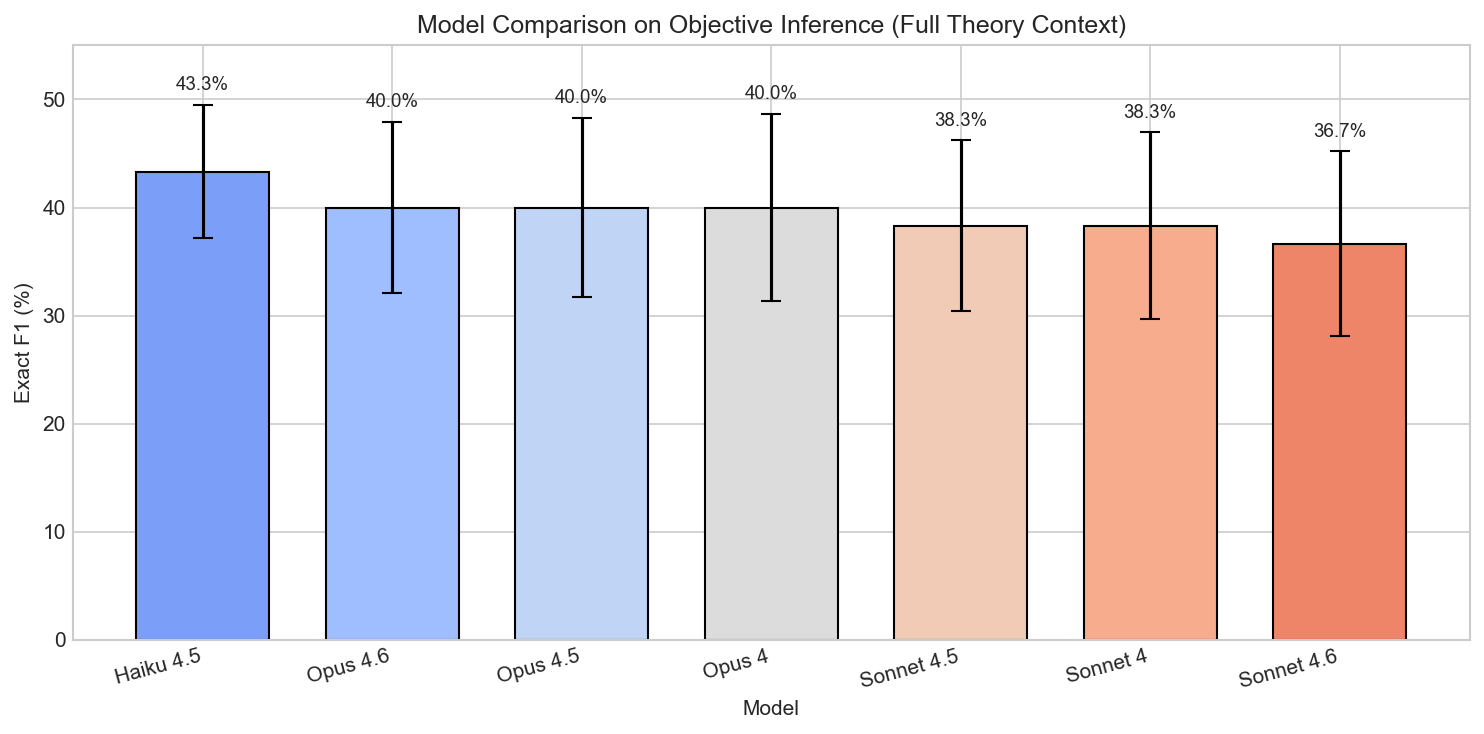
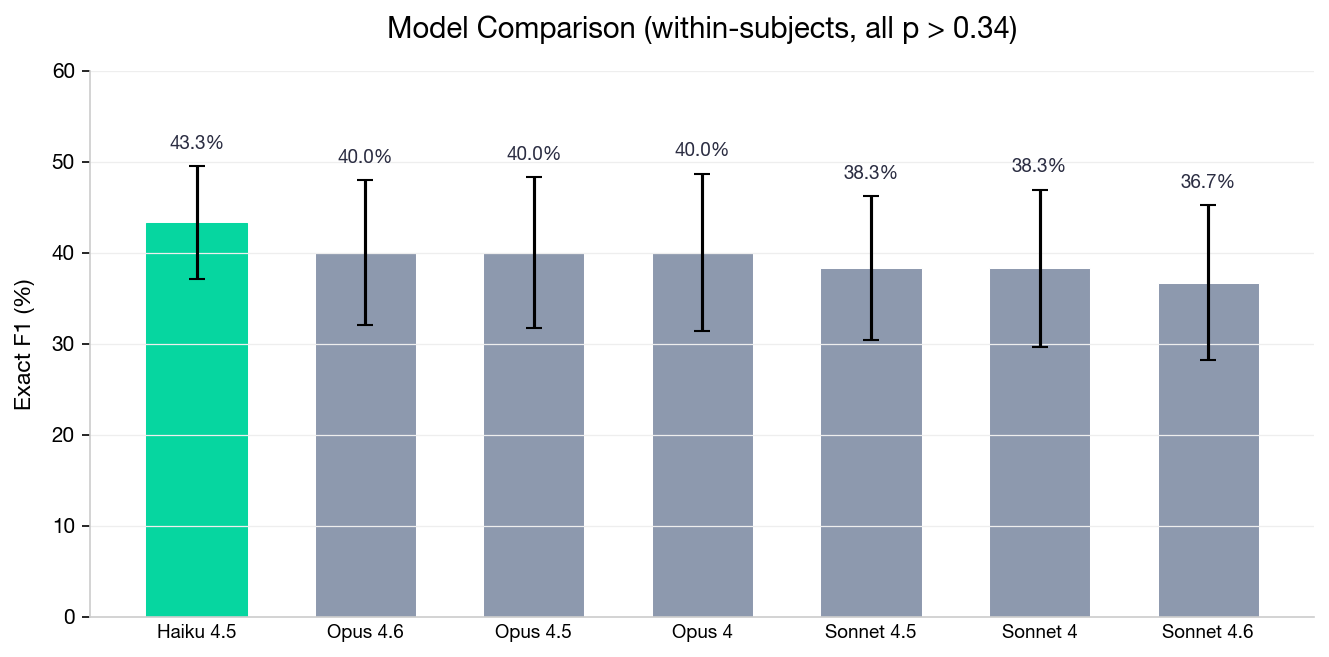
Add model comparison plot, remove oracle voluntary finding, remove project link

diff --git a/scripts/generate_blog_plots.py b/scripts/generate_blog_plots.py
@@ -279,6 +279,48 @@ def plot_effect_of_context():
 
 
 # ============================================================================
+# Plot 5: Model Comparison
+# ============================================================================
+
+def plot_model_comparison():
+    # Data from EXPERIMENTAL_RESULTS_SUMMARY.md (within-subjects, n=10)
+    models = ["Haiku 4.5", "Opus 4", "Opus 4.5", "Opus 4.6",
+              "Sonnet 4", "Sonnet 4.5", "Sonnet 4.6"]
+    means = [43.3, 40.0, 40.0, 40.0, 38.3, 38.3, 36.7]
+    stds = [19.6, 27.4, 26.3, 25.1, 27.3, 24.9, 27.0]
+    n = 10
+    ses = [s / np.sqrt(n) for s in stds]
+
+    # Sort by mean descending
+    order = np.argsort(means)[::-1]
+    models = [models[i] for i in order]
+    means = [means[i] for i in order]
+    ses = [ses[i] for i in order]
+
+    fig, ax = plt.subplots(figsize=(9, 4.5))
+
+    # All bars same color to emphasize "no difference"
+    bars = ax.bar(range(len(models)), means, yerr=ses, capsize=4,
+                  color=COLORS["neutral"], edgecolor="white", linewidth=0.5, width=0.6)
+
+    # Highlight cheapest model
+    bars[0].set_color(COLORS["success"])
+
+    ax.set_xticks(range(len(models)))
+    ax.set_xticklabels(models, fontsize=9)
+    ax.set_ylabel("Exact F1 (%)")
+    ax.set_title("Model Comparison (within-subjects, all p > 0.34)")
+    ax.set_ylim(0, 60)
+
+    add_bar_labels(ax, bars, means, ses)
+
+    plt.tight_layout()
+    plt.savefig(PLOTS_DIR / "fig8_model_comparison.png", dpi=150, bbox_inches="tight")
+    plt.close()
+    print("Saved fig8_model_comparison.png")
+
+
+# ============================================================================
 # Main
 # ============================================================================
 
@@ -288,4 +330,5 @@ if __name__ == "__main__":
     plot_oracle_effect()
     plot_f1_evolution()
     plot_effect_of_context()
+    plot_model_comparison()
     print("\nAll blog plots generated.")

diff --git a/docs/blog_post.md b/docs/blog_post.md
@@ -13,7 +13,7 @@
 
 ## Motivation
 
-This work is part of the [contextualization project](https://github.com/superkaiba/truthification), which aims to build systems that reliably estimate statement truth by conditioning on source identity and trust.
+This work is part of the contextualization project, which aims to build systems that reliably estimate statement truth by conditioning on source identity and trust.
 
 The core problem: text on the internet is produced by agents with specific objectives, but standard LLMs are trained on raw text, which **marginalizes over** author identity and goals — the same sentence means different things depending on who said it and why. The core theoretical insight ([agentic model of text generation](agentic-model-of-text-generation.md)) is that we can reverse this loss by explicitly conditioning on agent identity. "This product is excellent" carries entirely different information depending on whether it comes from a paid reviewer or a verified purchaser. If we can model the source, we can extract more accurate signal.
 
@@ -71,11 +71,11 @@ Forced oracle queries nearly triple property accuracy (25% → 71%):
 
 Optimal oracle budget is ~6 queries (27.1% F1), with diminishing returns beyond that — agents learn to "spin" oracle results (422 documented instances across 56 games).
 
-Critical finding: **LLMs don't voluntarily use verification tools.** When oracle use was optional, judges declined to query. Verification must be mandatory.
-
 ### Model capability doesn't matter
 
-7 Claude models tested on the same 10 transcripts (within-subjects): Haiku 4.5 (43.3%), Opus 4/4.5/4.6 (40.0%), Sonnet 4/4.5 (38.3%), Sonnet 4.6 (36.7%). All p > 0.34. **The cheapest model ties the most expensive.** The bottleneck is information structure, not model capability — if the signal isn't in the transcript, no model will find it.
+7 Claude models tested on the same 10 transcripts (within-subjects). All p > 0.34 — no significant differences. **The cheapest model (Haiku 4.5) ties the most expensive (Opus 4.6).** The bottleneck is information structure, not model capability — if the signal isn't in the transcript, no model will find it.
+
+![Model Comparison](../results/plots/fig8_model_comparison.png)
 
 ### More statements don't help
 
